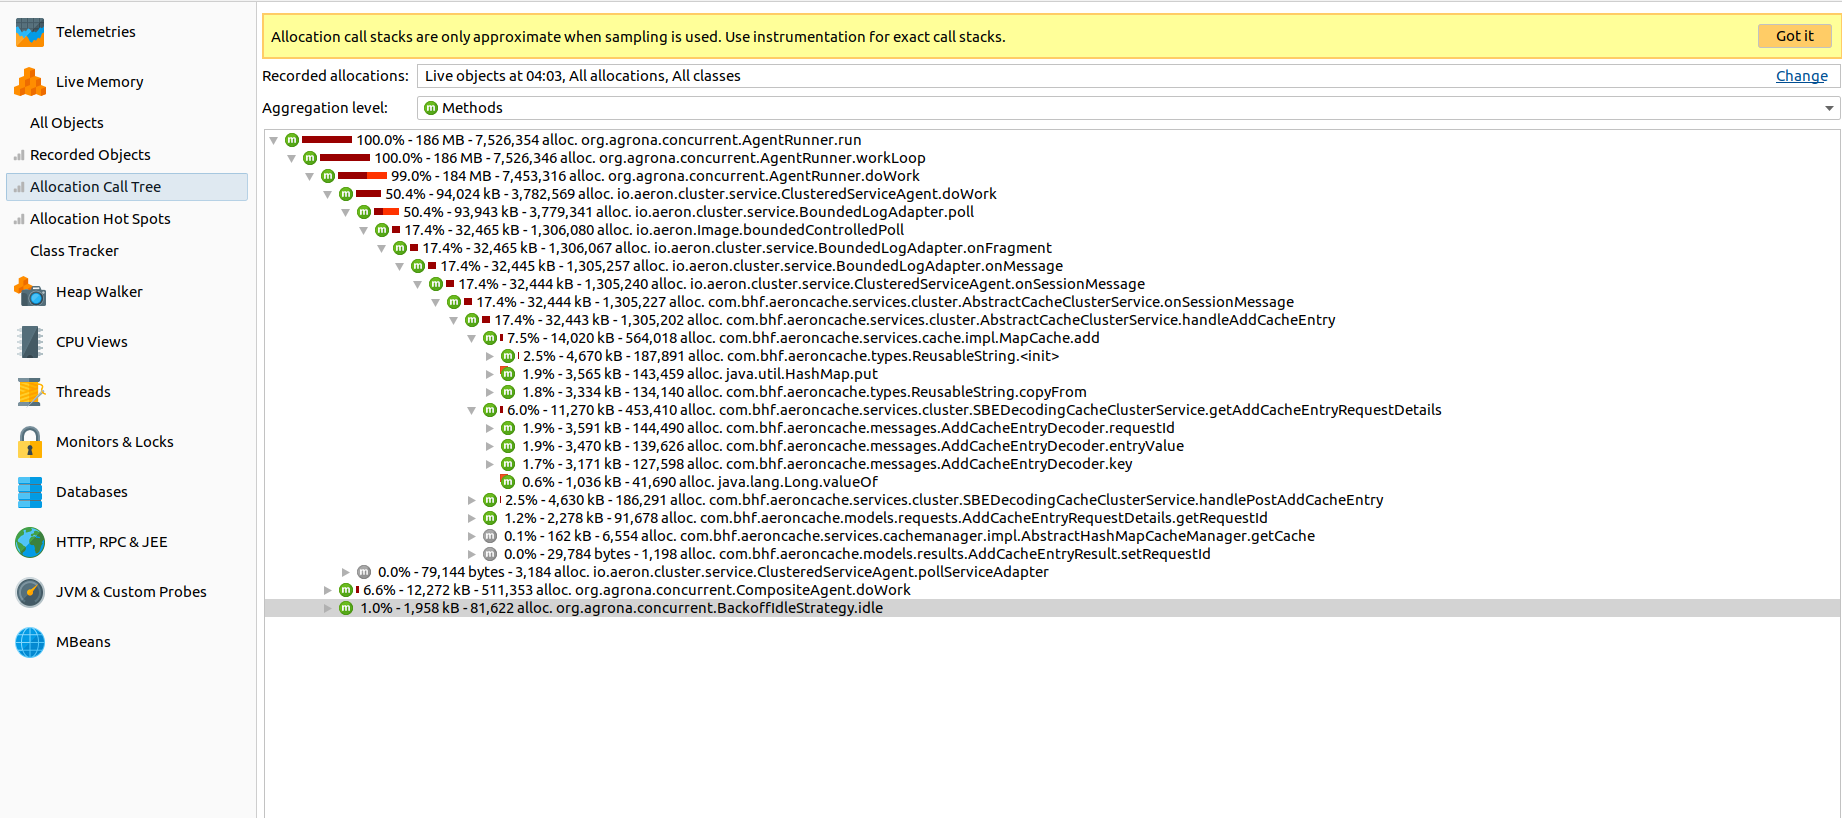
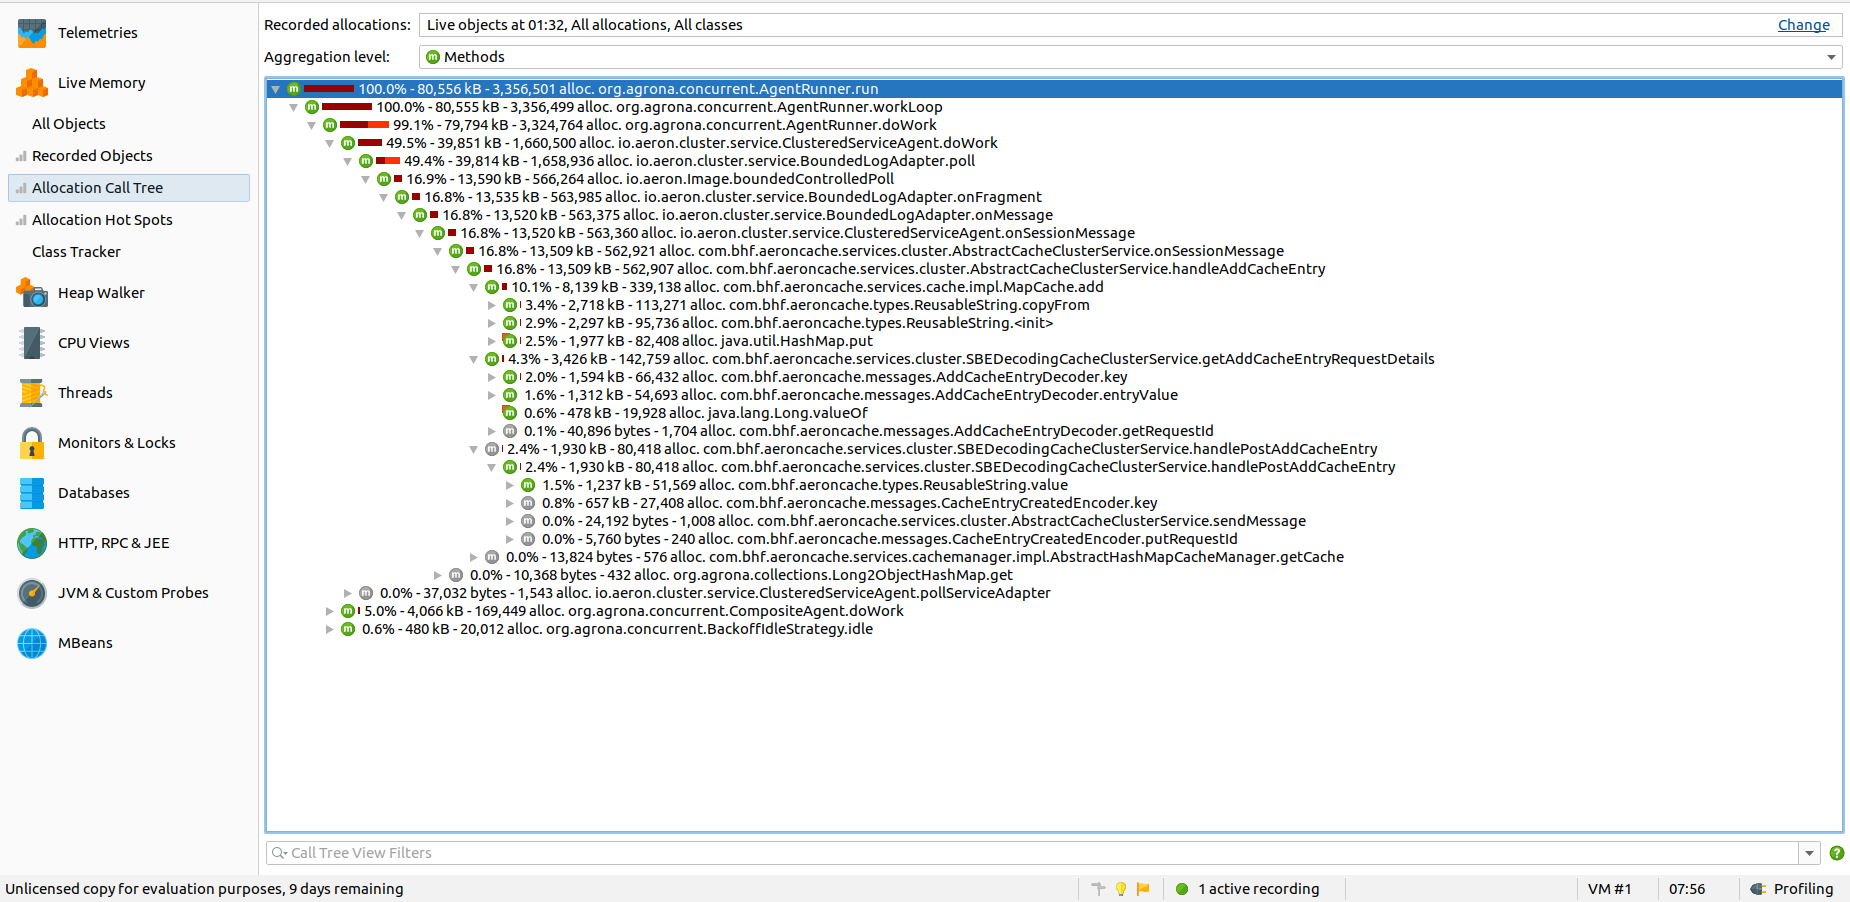
Handle requestId as byte array for adding to cache

Changed region(s): [[0.0, 0.0, 1.0, 1.0], [0.5879, 0.978, 0.7117, 1.0]]

diff --git a/cache-cluster/src/main/java/com/bhf/aeroncache/services/cluster/AbstractCacheClusterService.java b/cache-cluster/src/main/java/com/bhf/aeroncache/services/cluster/AbstractCacheClusterService.java
@@ -21,6 +21,7 @@ import org.agrona.DirectBuffer;
 import org.agrona.MutableDirectBuffer;
 import org.agrona.concurrent.IdleStrategy;
 
+import java.io.UnsupportedEncodingException;
 import java.util.Map;
 import java.util.function.Consumer;
 import java.util.function.Supplier;
@@ -207,38 +208,45 @@ public abstract class AbstractCacheClusterService<I extends Reusable, K extends 
         I cacheId = requestDetails.getCacheId();
         K key = requestDetails.getKey();
         V value = requestDetails.getValue();
-        var requestId = requestDetails.getRequestId();
-        log.info("Got add cache entry request for cache id {}, key {}, value {}, request Id: {}", cacheId, key, value, requestId);
+
+        if (log.isTraceEnabled()) {
+            try {
+                var readbleRequestId = new String(requestDetails.getRequestIdRawBytes(), "UTF-8");
+                log.trace("Got add cache entry request for cache id {}, key {}, value {}, request Id: {}", cacheId, key, value, readbleRequestId);
+            } catch (UnsupportedEncodingException e) {
+                throw new RuntimeException(e);
+            }
+        }
+
         var cache = cacheManager.getCache(cacheId);
 
         if (cache == null) {
-            handleMissingCacheOnAddEntry(session, buffer, offset, cacheId, key, value, requestDetails.getRequestId());
+            handleMissingCacheOnAddEntry(session, buffer, offset, cacheId, key, value, requestDetails.getRequestIdRawBytes(), requestDetails.getRequestIdLength());
             return;
         }
 
         var addCacheEntryResult = cache.add(key, value);
-        addCacheEntryResult.setRequestId(requestId);
+        //addCacheEntryResult.setRequestId(requestId);
         addCacheEntryResult.getCacheId().copyFrom(cacheId);
         log.info("Result for add entry, key: {}, status: {}, ", addCacheEntryResult.getEntryKey(), addCacheEntryResult.getStatus());
-        handlePostAddCacheEntry(cacheId, key, value, addCacheEntryResult, session, buffer, offset);
+        handlePostAddCacheEntry(cacheId, key, value, addCacheEntryResult, session, buffer, offset, requestDetails.getRequestIdRawBytes(), requestDetails.getRequestIdLength());
         tracingService.endAddCacheEntry(requestDetails);
     }
 
     /**
-     * @param session   Session requesting the add entry operation.
-     * @param buffer    Buffer containing the message.
-     * @param offset    Offset in the buffer at which the message is encoded.
-     * @param cacheId   The Cache ID.
-     * @param key       The key we tried to add the entry on.
-     * @param value     The value we tried to add against the key.
-     * @param requestId The original request ID.
+     * @param session Session requesting the add entry operation.
+     * @param buffer  Buffer containing the message.
+     * @param offset  Offset in the buffer at which the message is encoded.
+     * @param cacheId The Cache ID.
+     * @param key     The key we tried to add the entry on.
+     * @param value   The value we tried to add against the key.
      */
-    private void handleMissingCacheOnAddEntry(ClientSession session, DirectBuffer buffer, int offset, I cacheId, K key, V value, String requestId) {
+    private void handleMissingCacheOnAddEntry(ClientSession session, DirectBuffer buffer, int offset, I cacheId, K key, V value, byte[] requestIdBytes, int requestIdLength) {
         addEntryFailureResult.setStatus(OperationStatus.UNKNOWN_CACHE);
-        addEntryFailureResult.setRequestId(requestId);
+        //addEntryFailureResult.setRequestId(requestId);
         addEntryFailureResult.setCacheId(cacheId);
         log.info("Cache {} doesn't exist, tried to add on key key: {}", cacheId, addEntryFailureResult.getEntryKey());
-        handlePostAddCacheEntry(cacheId, key, value, addEntryFailureResult, session, buffer, offset);
+        handlePostAddCacheEntry(cacheId, key, value, addEntryFailureResult, session, buffer, offset, requestIdBytes, requestIdLength);
     }
 
     /**
@@ -463,8 +471,10 @@ public abstract class AbstractCacheClusterService<I extends Reusable, K extends 
      * @param session             The client session.
      * @param buffer              The buffer from which the entry creation request was created.
      * @param offset              The offset from within the buffer to decode the original request from.
+     * @param requestIdBytes      A byte[] of the requestId.
+     * @param requestIdLength     The length of the requestId byte[].
      */
-    protected abstract void handlePostAddCacheEntry(I cacheId, K key, V value, AddCacheEntryResult<I, K> addCacheEntryResult, ClientSession session, DirectBuffer buffer, int offset);
+    protected abstract void handlePostAddCacheEntry(I cacheId, K key, V value, AddCacheEntryResult<I, K> addCacheEntryResult, ClientSession session, DirectBuffer buffer, int offset, byte[] requestIdBytes, int requestIdLength);
 
     /**
      * Get an entry from the cache, send out a CacheEntry message.

diff --git a/cache-cluster/src/main/java/com/bhf/aeroncache/services/cluster/SBEDecodingCacheClusterService.java b/cache-cluster/src/main/java/com/bhf/aeroncache/services/cluster/SBEDecodingCacheClusterService.java
@@ -90,13 +90,14 @@ public class SBEDecodingCacheClusterService extends AbstractCacheClusterService<
         addCacheEntryRequestDetails.clear();
         addCacheEntryDecoder.wrapAndApplyHeader(buffer, offset, headerDecoder);
         long cacheId = addCacheEntryDecoder.cacheId();
-        var requestID = addCacheEntryDecoder.requestId();
+        var reqBytes = addCacheEntryRequestDetails.getRequestIdRawBytes();
+        int requestIdLength = addCacheEntryDecoder.getRequestId(reqBytes, 0, Integer.MAX_VALUE);
+        addCacheEntryRequestDetails.setRequestIdLength(requestIdLength);
         var key = addCacheEntryDecoder.key();
         var value = addCacheEntryDecoder.entryValue();
         addCacheEntryRequestDetails.getCacheId().copyFrom(cacheId);
         addCacheEntryRequestDetails.getKey().copyFrom(key);
         addCacheEntryRequestDetails.getValue().copyFrom(value);
-        addCacheEntryRequestDetails.setRequestId(requestID);
         return addCacheEntryRequestDetails;
     }
 
@@ -176,12 +177,13 @@ public class SBEDecodingCacheClusterService extends AbstractCacheClusterService<
     }
 
     @Override
-    protected void handlePostAddCacheEntry(ReusableLong cacheId, ReusableString key, ReusableString value, AddCacheEntryResult<ReusableLong, ReusableString> addCacheEntryResult, ClientSession session, DirectBuffer buffer, int offset) {
+    protected void handlePostAddCacheEntry(ReusableLong cacheId, ReusableString key, ReusableString value, AddCacheEntryResult<ReusableLong, ReusableString> addCacheEntryResult, ClientSession session, DirectBuffer buffer, int offset, byte[] requestIdBytes, int requestIdLength) {
         entryCreatedEncoder.wrapAndApplyHeader(egressBuffer, 0, headerEncoder);
         entryCreatedEncoder.cacheId(cacheId.getValue())
                 .status(addCacheEntryResult.getStatus())
                 .key(key.value())
-                .requestId(addCacheEntryResult.getRequestId());
+                //.requestId(addCacheEntryResult.getRequestId());
+                        .putRequestId(requestIdBytes, 0, requestIdLength);
         sendMessage(session, egressBuffer, entryCreatedEncoder.encodedLength() + headerEncoder.encodedLength());
         subscriptionService.handleEntryAdded(addCacheEntryResult, egressBuffer, key, value, entryCreatedEncoder, headerEncoder);
     }

diff --git a/cache-common/src/main/java/com/bhf/aeroncache/models/requests/AddCacheEntryRequestDetails.java b/cache-common/src/main/java/com/bhf/aeroncache/models/requests/AddCacheEntryRequestDetails.java
@@ -25,12 +25,24 @@ public class AddCacheEntryRequestDetails<I extends Reusable, K extends Reusable,
     final V value;
     final RequestId requestId = new RequestId();
 
-    public String getRequestId(){
+    public String getRequestId() {
         return requestId.getRequestId();
     }
 
     public void setRequestId(String requestId) {
         this.requestId.setRequestId(requestId);
+    }
+
+    public void setRequestIdLength(int rawBytesLength) {
+        this.requestId.setRawBytesLength(rawBytesLength);
+    }
+
+    public byte[] getRequestIdRawBytes() {
+        return this.requestId.getRawBytes();
+    }
+
+    public int getRequestIdLength() {
+        return this.requestId.getRawBytesLength();
     }
 
     /**

diff --git a/cache-common/src/main/java/com/bhf/aeroncache/models/RequestId.java b/cache-common/src/main/java/com/bhf/aeroncache/models/RequestId.java
@@ -1,8 +1,17 @@
 package com.bhf.aeroncache.models;
 
+import lombok.Getter;
+import lombok.Setter;
+
 public class RequestId implements Reusable<RequestId>{
 
     private final StringBuilder sb = new StringBuilder();
+    @Getter
+    private final byte[] rawBytes = new byte[1024];
+
+    @Getter @Setter
+    private int rawBytesLength;
+
     @Override
     public void clear() {
         sb.setLength(0);
@@ -31,4 +40,5 @@ public class RequestId implements Reusable<RequestId>{
         clear();
         this.sb.append(requestId);
     }
+
 }
